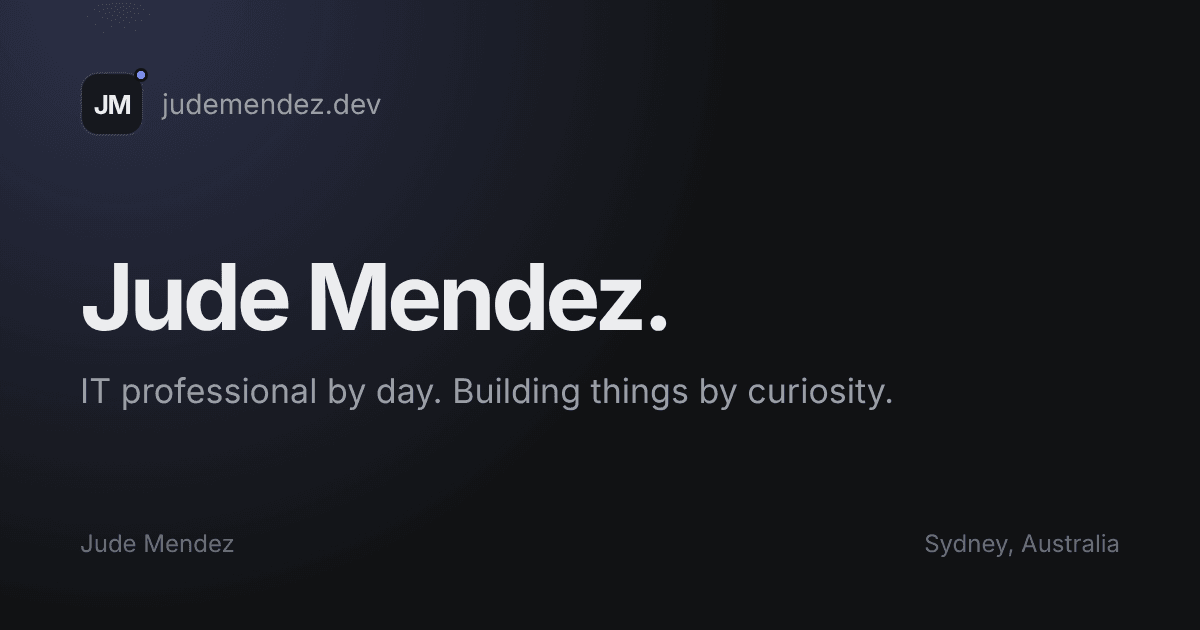
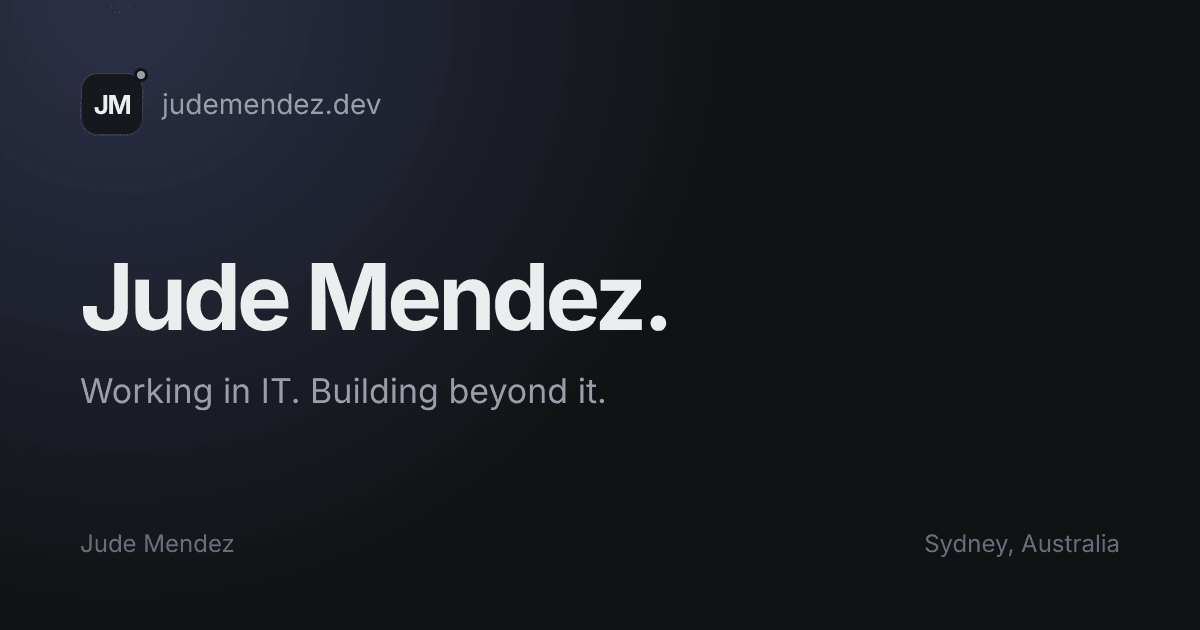
Add files via upload

Changed region(s): [[0.0617, 0.6032, 0.74, 0.6635]]

diff --git a/src/app/about/page.tsx b/src/app/about/page.tsx
@@ -19,23 +19,23 @@ export const metadata = createMetadata({
 const techInterests: { icon: IconName; title: string; body: string }[] = [
   {
     icon: "laptop",
-    title: "How systems fit together",
-    body: "Devices, identity, policies, networks. I like understanding the whole chain, not just the bit in front of me.",
+    title: "Understanding complex systems",
+    body: "I've always been interested in how different technologies work together. From infrastructure and networking to endpoint management, identity and security, I enjoy understanding the bigger picture and how each component contributes to a functioning enterprise environment.",
   },
   {
     icon: "code",
-    title: "Building software",
-    body: "Web apps, browser extensions and small tools that make something slightly less annoying.",
+    title: "Building practical solutions",
+    body: "I enjoy taking ideas and turning them into functional applications, whether that's a web platform, browser extension or a tool that addresses a real-world problem. I'm particularly interested in creating solutions that improve existing technologies and make everyday tasks easier.",
   },
   {
     icon: "flask",
-    title: "AI-assisted development",
-    body: "Using AI as a collaborator to get from idea to working product faster, and learning a lot along the way.",
+    title: "Exploring AI-assisted development",
+    body: "AI has opened up opportunities to explore software development in ways that weren't previously accessible to me. I enjoy experimenting with emerging AI technologies, learning through the development process and using these tools to bring ideas to life.",
   },
   {
     icon: "shield",
-    title: "Automation",
-    body: "If I've done it three times by hand, I start wondering how to never do it again.",
+    title: "Automation & efficiency",
+    body: "I naturally look for ways to simplify repetitive processes and improve how things are done. Whether through automation, better workflows or purpose-built tools, I'm interested in making technology more efficient, intuitive and accessible.",
   },
 ];
 
@@ -48,16 +48,19 @@ export default function AboutPage() {
       <div className="grid gap-12 pb-8 pt-14 sm:pt-20 lg:grid-cols-[1fr_340px] lg:gap-20">
         <header>
           <h1 className="rise text-title font-semibold text-balance">
-            I work in enterprise IT. I build things because I can&apos;t help it.
+            Working with technology. Building what&apos;s missing.
           </h1>
           <div className="rise prose-body mt-8 max-w-[62ch] text-lede text-ink-muted" style={cssVars({ "--i": 1 })}>
             <p>
-              Hi, I&apos;m Jude. I&apos;m based in Sydney and work as an Intune Administrator at Deloitte, looking after endpoint
-              management and security across the Asia-Pacific region.
+              Hi, I&apos;m Jude. I&apos;m a Sydney-based IT professional specialising in modern endpoint management, identity and
+              security. I currently work at Deloitte, managing Microsoft Intune and endpoint security across a global enterprise
+              environment, with a primary focus on the Asia-Pacific region.
             </p>
             <p>
-              I&apos;ve always been interested in how technology works, and what you can make once you understand it. That
-              curiosity is what got me into IT, and it&apos;s the same thing that has me opening a code editor after work.
+              My interest in technology has always extended beyond my professional work. I enjoy understanding how things work,
+              identifying where they could be better and exploring what&apos;s possible with new technologies. Whether it&apos;s
+              solving challenges in enterprise IT or developing my own applications, I&apos;m driven by the opportunity to turn
+              ideas into practical solutions.
             </p>
           </div>
         </header>
@@ -102,24 +105,35 @@ export default function AboutPage() {
       <section aria-labelledby="story" className="mt-16 grid gap-10 border-t border-line pt-16 lg:grid-cols-[280px_1fr] lg:gap-20">
         <Reveal>
           <h2 id="story" className="text-heading font-semibold">
-            Two sides, one habit
+            From an opportunity to a career
           </h2>
         </Reveal>
         <Reveal delay={1} className="prose-body max-w-[64ch] text-[17px] leading-[1.75] text-ink-muted">
           <p>
-            My career started in enterprise IT as a trainee systems engineer at The Star Entertainment Group, supporting end-user
-            technology and infrastructure. Over four years there I moved into device management, Windows Autopilot and Intune,
-            and worked on endpoint projects big enough that &ldquo;a few devices&rdquo; meant thousands.
+            My journey into IT began at just 18 years old, fresh out of high school, when I was given an opportunity to start as
+            an End User Technologies Trainee at The Star Entertainment Group. I knew it was an opportunity worth taking, and I
+            was determined to make the most of it. What started as an entry-level position quickly became a career I was
+            passionate about.
           </p>
           <p>
-            Today I do that work at Deloitte. It&apos;s a job about getting the details right at scale: the right policy, on the
-            right device, for the right people, without getting in anyone&apos;s way.
+            Over the next four years, I progressed into an End User Technologies Engineer, developing my expertise in enterprise
+            IT, endpoint management and modern workplace technologies. I took on increasingly complex responsibilities, from
+            managing enterprise infrastructure to leading large-scale device migrations and modernisation projects across
+            multiple properties.
           </p>
           <p>
-            The building side grew out of the same curiosity. AI-assisted development has made it possible for someone coming
-            from IT operations, rather than software engineering, to take an idea all the way to a working product. I&apos;m
-            not presenting myself as a full-time software engineer. I&apos;m someone who likes to understand things by making
-            them.
+            Today, at 24, I work at Deloitte, managing Microsoft Intune and endpoint security within a global enterprise
+            environment. Looking back, it&apos;s rewarding to see how much I&apos;ve grown from that 18-year-old just starting
+            out, and how much there still is to learn.
+          </p>
+          <p>
+            That same drive to learn has also led me beyond my professional career. With AI-assisted development opening up new
+            possibilities, I&apos;ve started building my own applications, exploring ideas and creating practical solutions to
+            real-world problems.
+          </p>
+          <p>
+            For me, technology has never been just about the work I do, but about continuously learning, improving and seeing
+            what I can build next.
           </p>
         </Reveal>
       </section>
@@ -128,7 +142,7 @@ export default function AboutPage() {
       <section aria-labelledby="tech" className="mt-24">
         <Reveal>
           <h2 id="tech" className="text-heading font-semibold">
-            What I&apos;m into, technically
+            What drives my interest in technology
           </h2>
         </Reveal>
         <ul className="mt-10 grid gap-px overflow-hidden rounded-[24px] border border-line bg-line sm:grid-cols-2">

diff --git a/src/content/experience.ts b/src/content/experience.ts
@@ -29,12 +29,12 @@ export const experience: Company[] = [
     location: "Sydney",
     roles: [
       {
-        title: "Intune Administrator",
+        title: "Microsoft Intune Administrator - Asia Pacific",
         start: "Mar 2025",
         end: "Present",
         current: true,
         summary:
-          "Supporting enterprise endpoint management and security across the Asia-Pacific region, with experience contributing to global Microsoft Defender initiatives.",
+          "Responsible for managing Microsoft Intune and endpoint security across a global enterprise environment, with a primary focus on the Asia-Pacific region. My work includes implementing role-based access controls at a global scale, collaborating with security teams to develop and deploy endpoint security policies, and conducting proof-of-concept testing to evaluate new technologies. I've also led the implementation and rollout of Microsoft Intune Remote Help to member firms worldwide, helping improve remote support capabilities across the organisation.",
         focus: [
           "Microsoft Intune administration",
           "Endpoint security and Microsoft Defender",
@@ -49,12 +49,12 @@ export const experience: Company[] = [
     location: "Sydney",
     roles: [
       {
-        title: "Systems Engineer",
+        title: "End User Technologies Engineer",
         // TODO (your input): add the start month if you'd like, e.g. "Jul 2022".
         start: "2022",
         end: "Feb 2025",
         summary:
-          "Worked across enterprise device management, Windows Autopilot, Microsoft Intune and infrastructure, contributing to large-scale endpoint projects including migrations involving thousands of devices.",
+          "Served as the Subject Matter Expert (SME) for Mobile Device Management, leading the migration of over 10,000 devices from a legacy MDM platform to Microsoft Intune across Sydney, Brisbane and the Gold Coast. Played a key role in modernising enterprise endpoint infrastructure through SCCM and Intune integration, Windows Autopilot deployments and device management improvements. Provided technical leadership to field services teams across all three properties, delivering scalable solutions that improved endpoint provisioning, management and security.",
         focus: [
           "Enterprise device management",
           "Windows Autopilot",
@@ -64,7 +64,7 @@ export const experience: Company[] = [
         ],
       },
       {
-        title: "Trainee Systems Engineer",
+        title: "End User Technologies Trainee",
         start: "Mar 2021",
         end: "Jun 2022",
         summary:
@@ -80,36 +80,55 @@ export type SkillGroup = { name: string; blurb: string; skills: string[] };
 export const skillGroups: SkillGroup[] = [
   {
     name: "Endpoint Management",
-    blurb: "Getting devices enrolled, configured and kept healthy at scale.",
+    blurb: "Deploying, configuring and managing enterprise devices at scale.",
     skills: [
       "Microsoft Intune",
-      "SCCM / MECM",
+      "Microsoft Configuration Manager (SCCM / MECM)",
       "Windows Autopilot",
       "Mobile Device Management (MDM)",
       "Mobile Application Management (MAM)",
+      "Apple Business Manager",
+      "Android Enterprise",
+      "Endpoint Configuration & Compliance",
     ],
   },
   {
     name: "Identity & Security",
-    blurb: "Making sure the right people reach the right things from healthy devices.",
-    skills: ["Microsoft Entra ID", "Conditional Access", "Device compliance", "Microsoft Defender"],
+    blurb: "Managing identity, access and endpoint protection across enterprise environments.",
+    skills: [
+      "Microsoft Entra ID",
+      "Microsoft Defender for Endpoint",
+      "Conditional Access",
+      "Role-Based Access Control (RBAC)",
+      "Identity & Access Management (IAM)",
+      "Endpoint Security Policies",
+      "Device Compliance",
+    ],
   },
   {
     name: "Infrastructure & Automation",
-    blurb: "Less clicking, more repeatable work.",
-    // TODO (your input): add scripting languages or tools you use day to day.
-    skills: ["Microsoft Graph", "Graph-based automation", "Enterprise infrastructure", "IT operations"],
+    blurb: "Supporting enterprise infrastructure, system integration and operational efficiency.",
+    skills: [
+      "Microsoft Graph API",
+      "Active Directory",
+      "Group Policy",
+      "PowerShell",
+      "Public Key Infrastructure (PKI)",
+      "Certificate Management",
+      "Enterprise IT Operations",
+    ],
   },
   {
     name: "Development & Tools",
-    blurb: "What I reach for when I'm building something of my own.",
+    blurb: "Exploring modern development technologies to build practical applications and solutions.",
     skills: [
       "Next.js",
+      "React",
       "TypeScript",
       "Tailwind CSS",
       "Supabase",
-      "Browser extensions",
-      "AI-assisted development",
+      "Browser Extension Development",
+      "AI-Assisted Development",
     ],
   },
 ];

diff --git a/src/app/page.tsx b/src/app/page.tsx
@@ -41,14 +41,15 @@ export default function HomePage() {
             </h1>
 
             <p className="rise mt-5 text-tagline font-medium text-ink-muted" style={{ "--i": 2 } as CSSProperties}>
-              IT professional by day.
+              Working in IT.
               <br />
-              Building things by curiosity.
+              Building beyond it.
             </p>
 
             <p className="rise mt-6 max-w-[34rem] text-lede text-ink-muted text-pretty" style={{ "--i": 3 } as CSSProperties}>
-              I&apos;m a Sydney-based IT professional specialising in enterprise endpoint management and security. Outside the day
-              job, I build apps, experiment with AI, and turn ideas into working products.
+              I specialise in modern enterprise IT, with a focus on Microsoft Intune, Entra ID and endpoint security. Based in
+              Sydney, I work with technologies that help organisations manage and secure their devices at scale. Outside of
+              that, I build my own applications, explore AI and experiment with new ideas.
             </p>
 
             <div className="rise mt-9 flex flex-wrap gap-3" style={{ "--i": 4 } as CSSProperties}>
@@ -143,9 +144,10 @@ export default function HomePage() {
               The day job keeps the ideas grounded. Building keeps me learning.
             </h2>
             <p className="mt-5 max-w-lg leading-relaxed text-ink-muted text-pretty">
-              My work is managing Microsoft technologies across a large enterprise: devices, identity, security and the policies
-              that tie them together. A lot of what I build on the side starts there, with a slow workflow or a question that
-              takes too many clicks to answer.
+              Working in enterprise IT has given me firsthand experience with the frustrations and inefficiencies that IT
+              professionals face every day. Even the most established technologies have their limitations, and sometimes the
+              simplest tasks are harder than they need to be. I enjoy identifying those gaps and building practical tools that
+              simplify workflows, solve real problems and make life easier for the people using them.
             </p>
             <ButtonLink href="/experience" variant="secondary" icon="arrow-right" className="mt-8">
               My experience
@@ -177,7 +179,7 @@ export default function HomePage() {
                 ))}
               </ul>
               <p className="mt-8 border-t border-line pt-5 text-sm text-ink-muted">
-                Before that: {experience[1].roles.length} roles at {experience[1].company}, from trainee to systems engineer.
+                Before that: {experience[1].roles.length} roles at {experience[1].company}, from trainee to End User Technologies Engineer.
               </p>
             </Link>
           </Reveal>

diff --git a/src/app/experience/page.tsx b/src/app/experience/page.tsx
@@ -11,7 +11,7 @@ export const metadata = createMetadata({
   path: "/experience",
   image: socialImages.experience,
   description:
-    "Jude Mendez's career in enterprise IT: Intune Administrator at Deloitte, and previously Systems Engineer at The Star Entertainment Group. Endpoint management, identity and security.",
+    "Jude Mendez's career in enterprise IT: Microsoft Intune Administrator - Asia Pacific at Deloitte, and previously End User Technologies Engineer at The Star Entertainment Group. Endpoint management, identity and security.",
 });
 
 export default function ExperiencePage() {
@@ -34,7 +34,7 @@ export default function ExperiencePage() {
 
       <PageHeader
         title="Experience"
-        lede="Five-plus years in enterprise IT, working mostly with Microsoft's endpoint, identity and security stack."
+        lede="Over five years of experience in enterprise IT, specialising in modern workplace technologies, endpoint management and security. My work spans large-scale deployments, infrastructure modernisation and the management of Microsoft technologies across complex enterprise environments."
       />
 
       {/* ---------------- Timeline ---------------- */}
@@ -105,7 +105,8 @@ export default function ExperiencePage() {
             Technical skills
           </h2>
           <p className="mt-3 max-w-xl text-ink-muted">
-            The tools and areas I work with, grouped the way they show up in practice.
+            Technologies and platforms I&apos;ve worked with across enterprise IT, endpoint management, security and
+            independent development.
           </p>
         </Reveal>
 

diff --git a/src/lib/seo.ts b/src/lib/seo.ts
@@ -14,7 +14,7 @@ export type SocialImage = { url: string; width: number; height: number; alt: str
 
 /** Ready-made 1200×630 share cards in /public/og (regenerate them if you change page titles). */
 export const socialImages = {
-  home: { url: "/og/home.png", width: 1200, height: 630, alt: "Jude Mendez — IT professional by day, building things by curiosity" },
+  home: { url: "/og/home.png", width: 1200, height: 630, alt: "Jude Mendez — Working in IT. Building beyond it." },
   projects: { url: "/og/projects.png", width: 1200, height: 630, alt: "Projects by Jude Mendez" },
   about: { url: "/og/about.png", width: 1200, height: 630, alt: "About Jude Mendez" },
   experience: { url: "/og/experience.png", width: 1200, height: 630, alt: "Jude Mendez's professional experience" },

diff --git a/src/content/site.ts b/src/content/site.ts
@@ -22,7 +22,7 @@ export const site = {
   description:
     "Jude Mendez is a Sydney-based IT professional specialising in enterprise endpoint management and security, who builds apps and experiments with AI-assisted development outside the day job.",
 
-  role: "Intune Administrator",
+  role: "Microsoft Intune Administrator - Asia Pacific",
   employer: "Deloitte",
 
   /**
